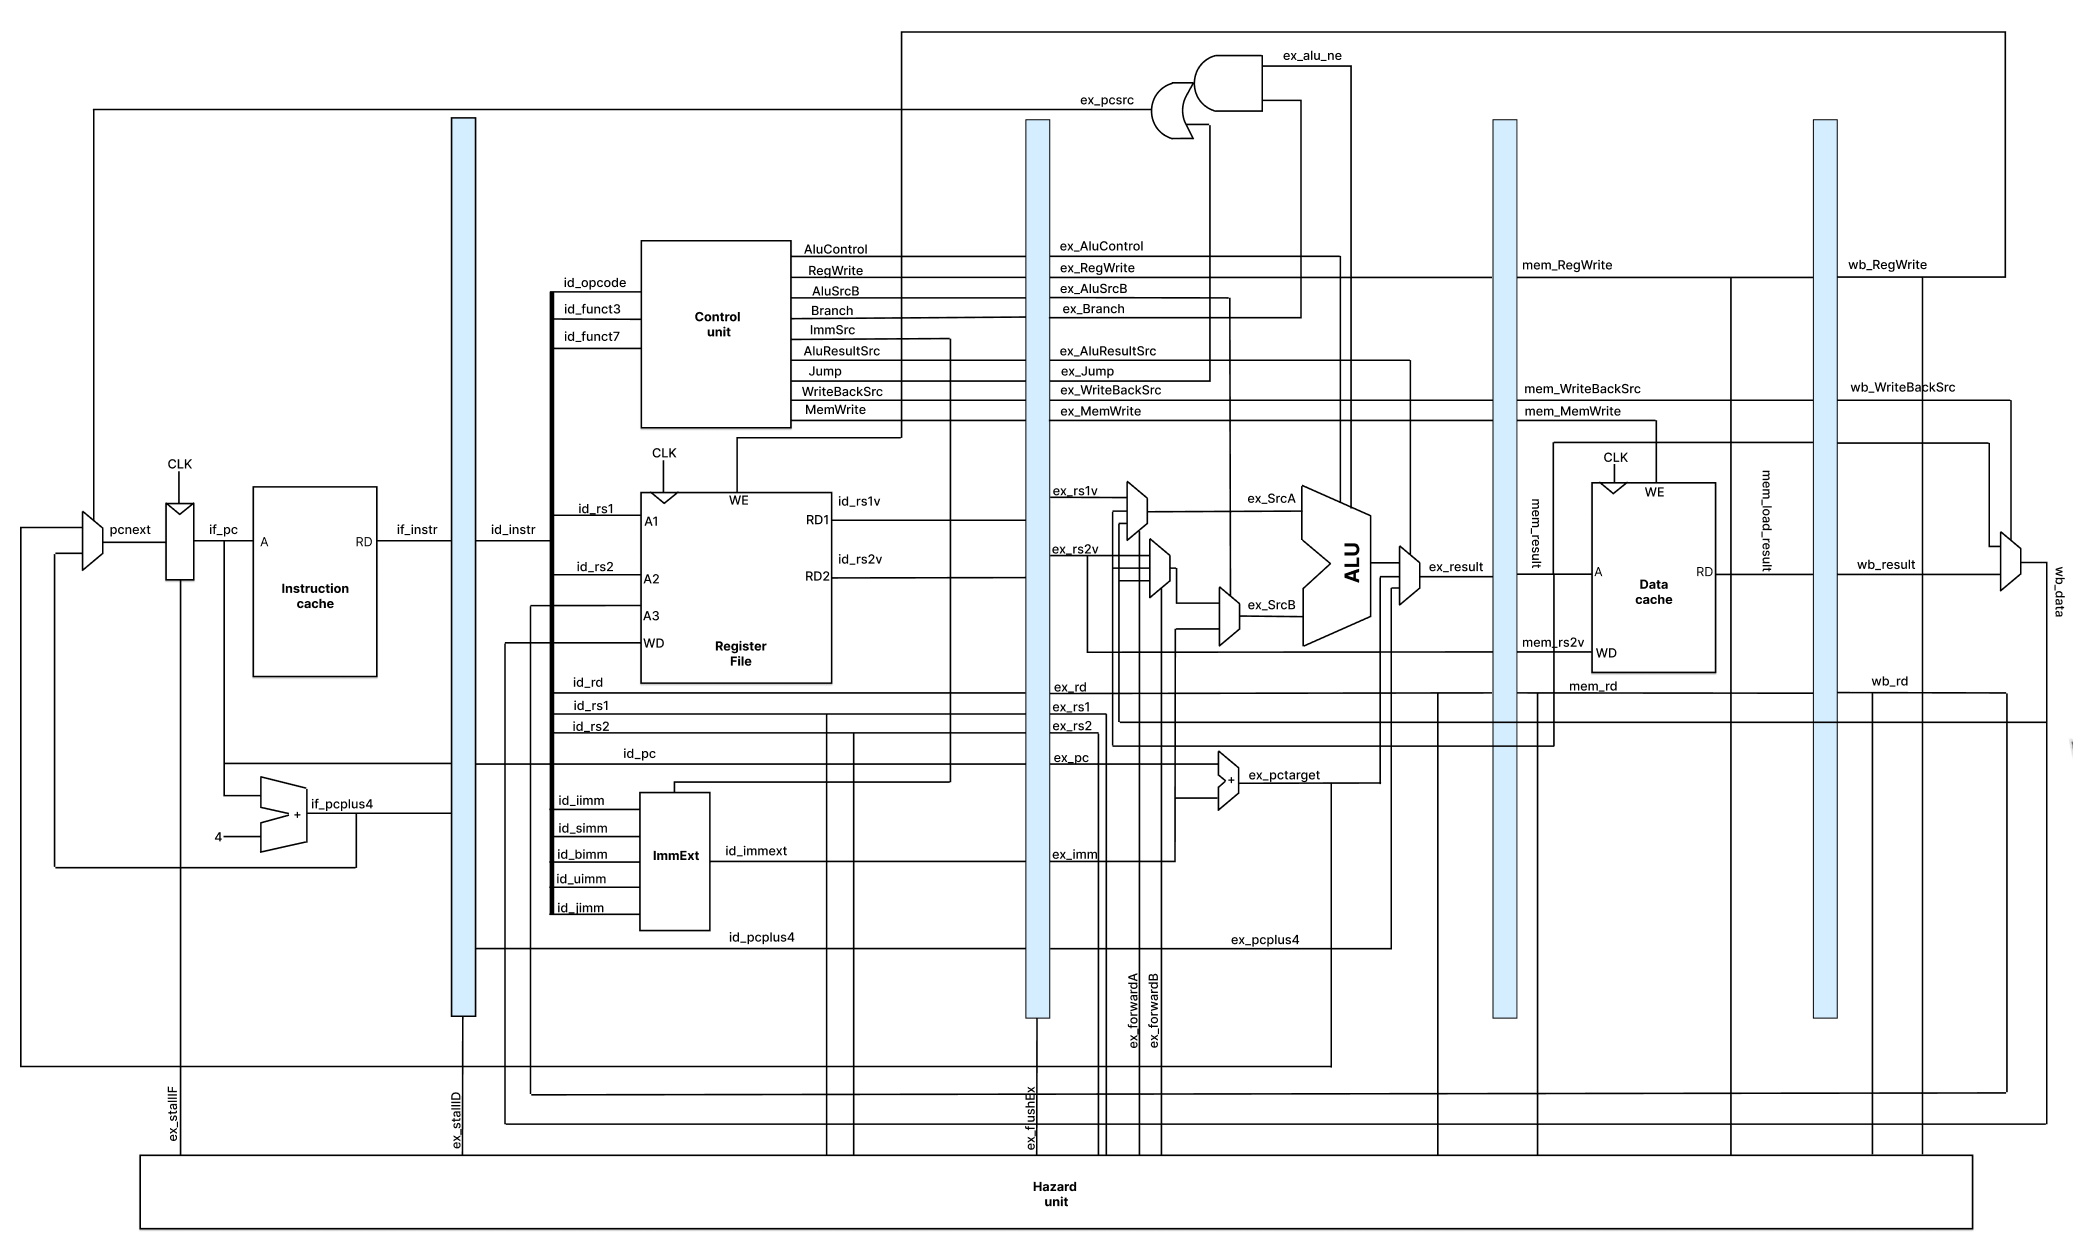
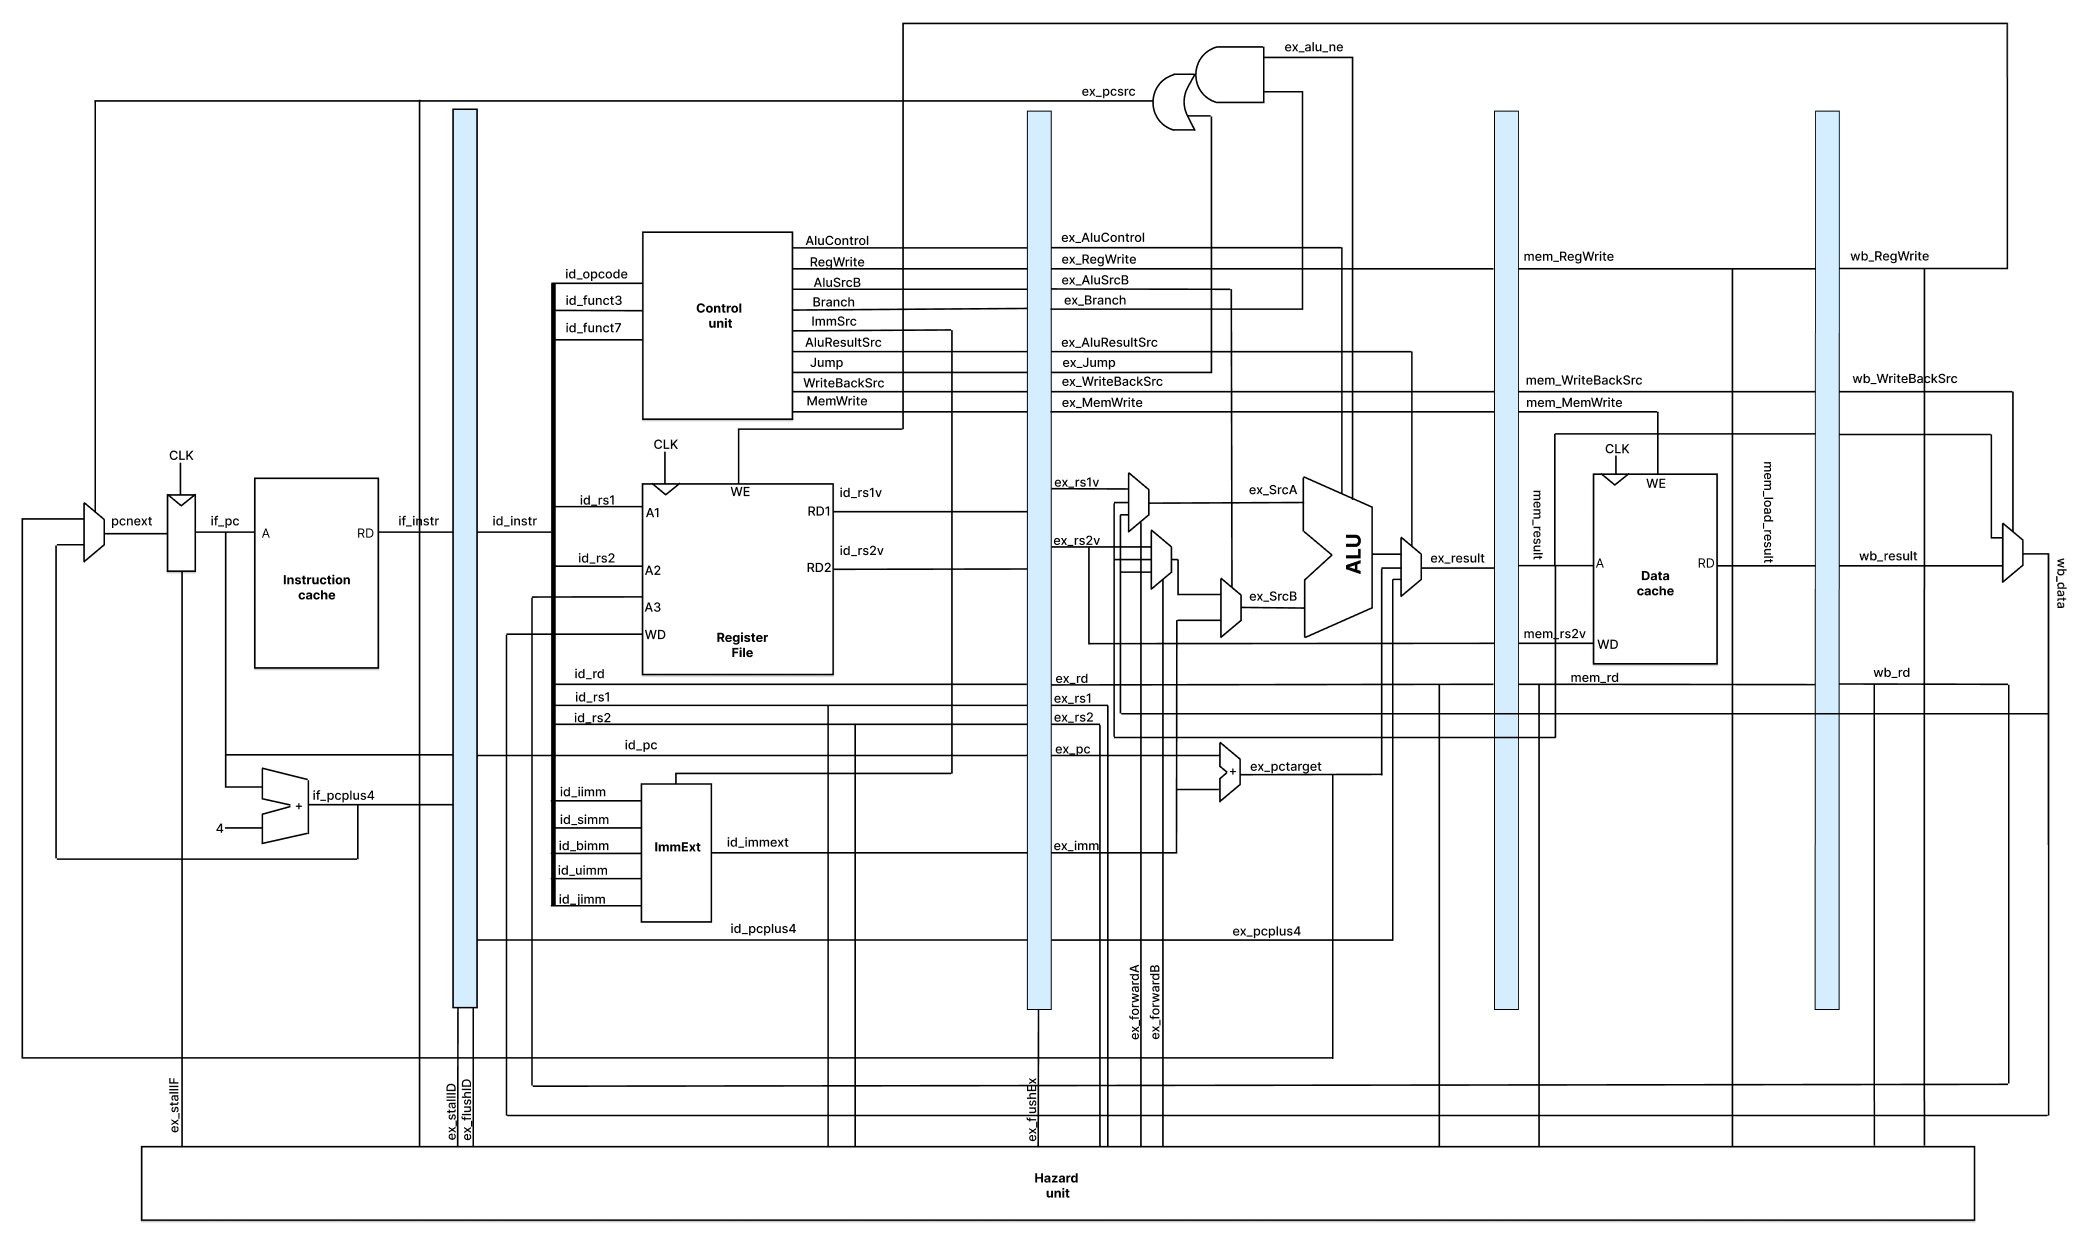
static branch prediction

diff --git a/processor/README.md b/processor/README.md
@@ -9,6 +9,6 @@
     - MEM   -> EX
     - WB    -> EX
     - WB    -> ID (implicitly through Register File)
-- Stalls for Load-use hazards
-    - Stall
+- Stalling for load-use hazards
+- Static 'not taken' branch predictor
 
